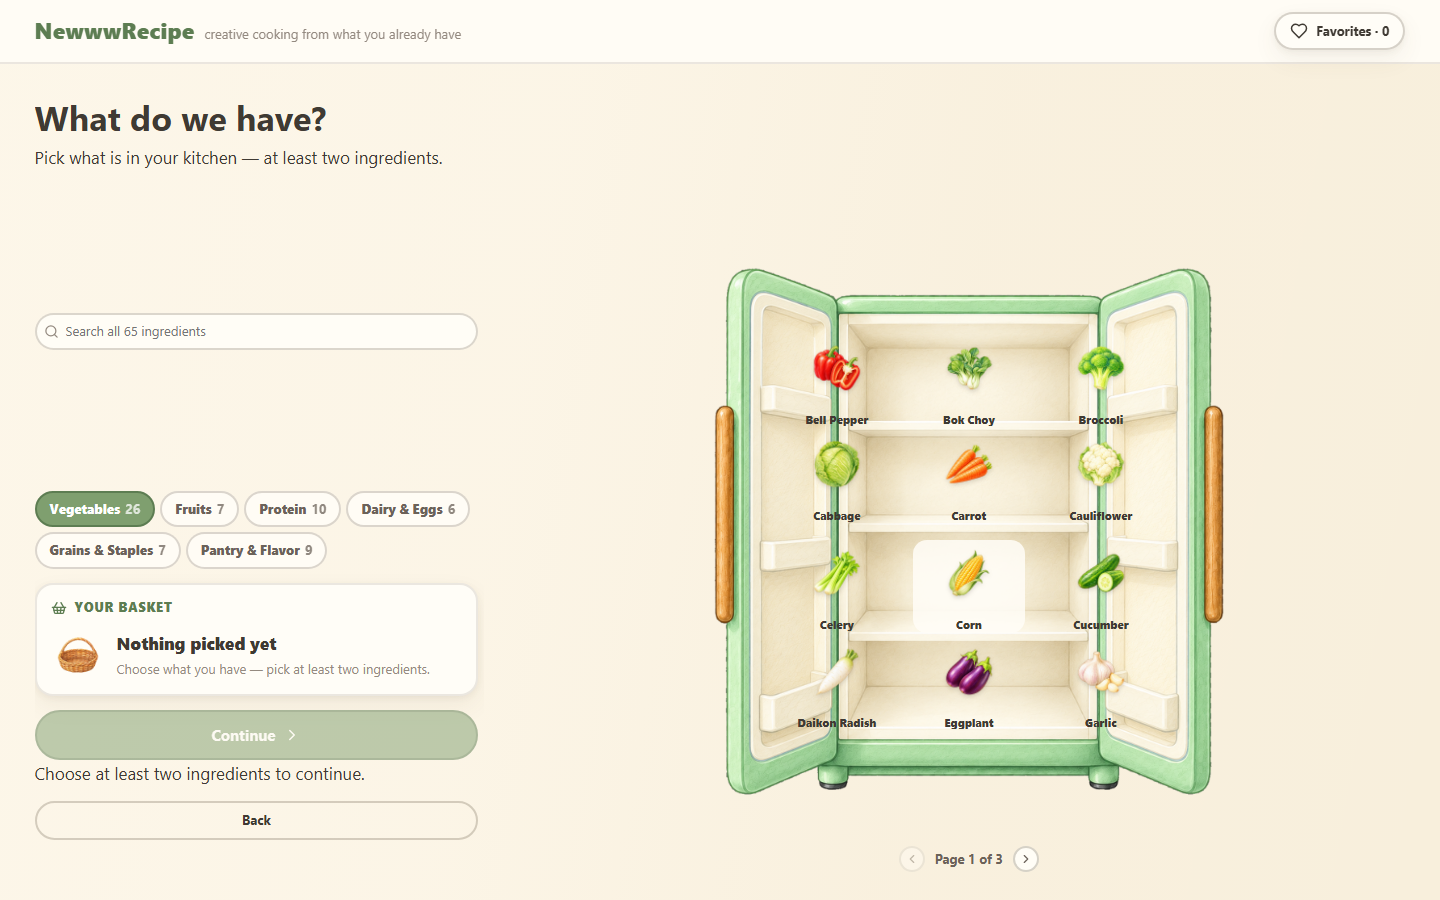
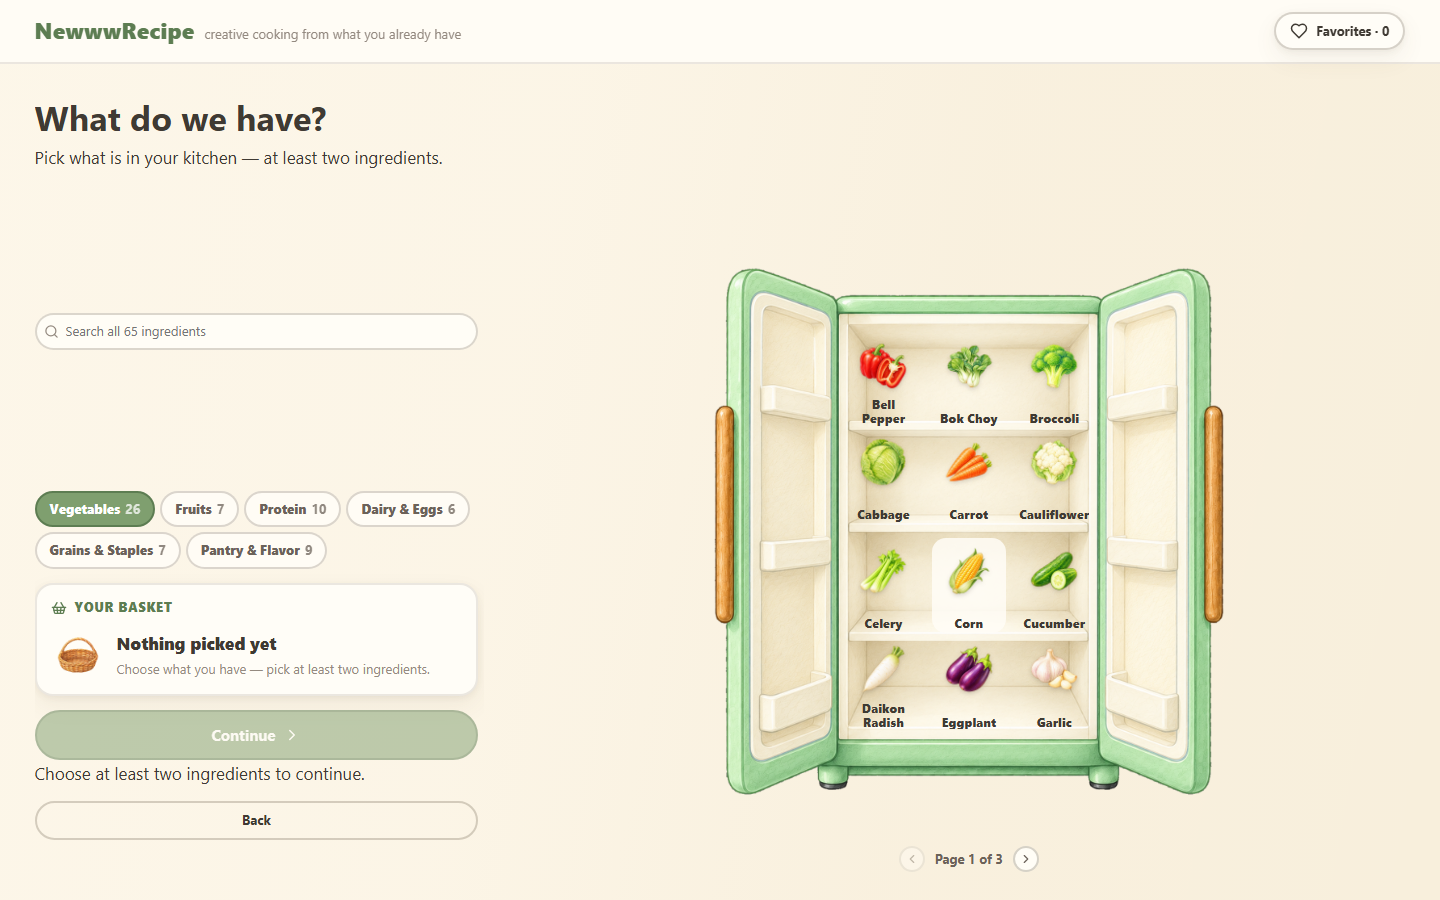
fix: constrain ingredients to fridge cavity
The previous alignment used --cavity-left/right: 9% -> 91%, which mapped to the
whole open-fridge silhouette INCLUDING the open door panels, not the central
storage cavity. This pushed the first and third ingredient columns onto the door
frames at both 1440x900 and 1024x768.

Re-measured the true central cavity from fronted asset/fridge_open_empty.png
(1536x1536) by detecting the inner edges of the two green cabinet body walls and
cross-checking that the shelf boards terminate exactly there:
  left inner edge x=445 (~28.97%), right inner edge x=1085 (~70.64%).

Introduce a two-layer coordinate model:
- Layer 1 (image space): .fridge__frame keeps the 1:1 mapping; adds
  --cavity-left-x: 29% and --cavity-right-x: 71% as full-image percentages.
- Layer 2 (cavity space): .fridge__interior is clipped to that central cavity
  (left/right narrowed, top/bottom left at frame edges so shelf Y stays valid),
  and .shelf__row is a 3-column grid (repeat(3, minmax(0,1fr))) inside it with a
  --cavity-safe: 3% inset so tiles never touch the green walls. Tiles fill their
  column (width:100%) instead of spanning the whole frame width.

Vertical shelf anchors (36.20/51.69/69.27/85.16%) are unchanged and remain
bottom-anchored; Preferences reuses the identical coordinate system.

Verification: Playwright geometric checks at 1440x900 and 1024x768 confirm every
one of the 12 tiles stays within the true cavity (0 failures, 0 horizontal
[…]

Changed region(s): [[0.5625, 0.3733, 0.7812, 0.8089], [0.7188, 0.3733, 0.7812, 0.5911], [0.5625, 0.6844, 0.625, 0.8089]]

diff --git a/web/src/styles/global.css b/web/src/styles/global.css
@@ -428,31 +428,43 @@ button {
   }
 }
 
-/* Square 1:1 stage that the rendered frames and the ingredient overlay share.
-   All three source PNGs are 1536x1536, so a square box + object-fit:fill maps
-   image pixels 1:1 onto the overlay's percentage coordinate system (no
-   letterboxing, no distortion). Shelf anchors below were measured from the
-   actual fridge_open_empty.png, expressed as full-image percentages:
-     cavity x: 9% -> 91%   shelf boards (image-y): 36.20 / 51.69 / 69.27 / 85.16 %
-   See the alignment fix commit for the measurement method. */
+/* Two-layer coordinate model, measured from the actual 1536x1536
+   fridge_open_empty.png (see the cavity-constrain fix commit):
+     - Layer 1 (image space): .fridge__frame == the full 1536x1536 image.
+       --cavity-left-x / --cavity-right-x are the INNER edges of the two green
+       cabinet body walls that bound the central storage cavity. They are NOT
+       the fridge silhouette (which includes the open doors at ~9%..91%).
+       Measured: left inner edge x=445 (~28.97%), right inner edge x=1085
+       (~70.64%); the shelf boards terminate exactly at these x at every level.
+     - Layer 2 (cavity space): .fridge__interior is clipped to that central
+       cavity, and the 3-column grid lives inside it with a safe inset.
+   Shelf anchors are full-image Y percentages and stay unchanged:
+     36.20 / 51.69 / 69.27 / 85.16 %. */
 .fridge__frame {
-  --cavity-left: 9%;
-  --cavity-right: 9%;
+  --cavity-left-x: 29%;
+  --cavity-right-x: 71%;
+  --cavity-safe: 3%;
   --shelf-1-y: 36.20%;
   --shelf-2-y: 51.69%;
   --shelf-3-y: 69.27%;
   --shelf-4-y: 85.16%;
   --shelf-gap: 1.4%;
   --tile-art-h: calc(var(--fridge-size) * 0.10);
-  --tile-name-fs: calc(var(--fridge-size) * 0.018);
+  --tile-name-fs: calc(var(--fridge-size) * 0.020);
   position: relative;
   width: 100%;
   aspect-ratio: 1 / 1;
 }
 
+/* Layer 2: clipped to the central storage cavity only (between the two green
+   body walls). Top/bottom stay at the frame edges so the measured shelf Y
+   percentages remain valid; only left/right are narrowed to the cavity. */
 .fridge__interior {
   position: absolute;
-  inset: 0;
+  top: 0;
+  bottom: 0;
+  left: var(--cavity-left-x);
+  right: calc(100% - var(--cavity-right-x));
   z-index: 3;
   opacity: 0;
   visibility: hidden;
@@ -765,14 +777,17 @@ button {
   inset: 0;
 }
 
+/* Three columns live INSIDE the central cavity (the .fridge__interior is already
+   clipped to it). A safe inset keeps tiles off the green body walls; columns are
+   computed from the cavity's own width so they never span the whole fridge. */
 .shelf__row {
   position: absolute;
-  left: var(--cavity-left);
-  right: var(--cavity-right);
-  display: flex;
-  justify-content: center;
+  left: var(--cavity-safe);
+  right: var(--cavity-safe);
+  display: grid;
+  grid-template-columns: repeat(3, minmax(0, 1fr));
   align-items: flex-end;
-  gap: clamp(6px, 1.6vw, 20px);
+  gap: clamp(2px, 0.8vw, 12px);
   transform: none;
 }
 
@@ -800,7 +815,8 @@ button {
   align-items: center;
   justify-content: flex-end;
   gap: 2px;
-  width: clamp(54px, calc(var(--fridge-size) * 0.22), 112px);
+  width: 100%;
+  max-width: 100%;
   padding: 2px;
   background: transparent;
   border: 0;

diff --git a/web/src/components/IngredientShelf.test.tsx b/web/src/components/IngredientShelf.test.tsx
@@ -65,23 +65,41 @@ describe('ingredient shelf — coordinate model', () => {
     expect(other).toHaveAttribute('aria-pressed', 'false')
   })
 
-  it('centralizes shelf positions in CSS custom properties (bottom-anchored, not old top bands)', () => {
+  it('centralizes shelf positions in CSS custom properties (cavity-constrained, bottom-anchored)', () => {
     const css = readFileSync(resolve(process.cwd(), 'src/styles/global.css'), 'utf8')
 
-    // Measured, full-image-percentage shelf anchors must be present.
-    expect(css).toContain('--cavity-left: 9%')
+    // Central cavity anchors: inner edges of the two green body walls, measured
+    // from the 1536x1536 PNG (NOT the whole-fridge silhouette / open doors).
+    expect(css).toContain('--cavity-left-x: 29%')
+    expect(css).toContain('--cavity-right-x: 71%')
+    expect(css).toContain('--cavity-safe: 3%')
+
+    // Shelf Y anchors are unchanged full-image percentages, still bottom-anchored.
     expect(css).toContain('--shelf-1-y: 36.20%')
     expect(css).toContain('--shelf-2-y: 51.69%')
     expect(css).toContain('--shelf-3-y: 69.27%')
     expect(css).toContain('--shelf-4-y: 85.16%')
-
-    // Rows must be bottom-anchored to those named anchors...
     expect(css).toContain('bottom: calc(100% - var(--shelf-1-y)')
     expect(css).toContain('bottom: calc(100% - var(--shelf-2-y)')
     expect(css).toContain('bottom: calc(100% - var(--shelf-3-y)')
     expect(css).toContain('bottom: calc(100% - var(--shelf-4-y)')
 
-    // ...and the old ad-hoc per-band top values must be gone from the shelf rows.
+    // The overlay interior is clipped to the central cavity, never the full frame.
+    expect(css).toContain('left: var(--cavity-left-x)')
+    expect(css).toContain('right: calc(100% - var(--cavity-right-x))')
+    // The old full-frame `inset: 0` clipping of the interior is gone.
+    const interiorBlock = css.split('.fridge__interior {')[1].split('}')[0]
+    expect(interiorBlock).not.toContain('inset: 0')
+
+    // Rows live inside the cavity as a 3-column grid with a safe inset.
+    const rowBlock = css.split('.shelf__row {')[1].split('}')[0]
+    expect(rowBlock).toContain('display: grid')
+    expect(rowBlock).toContain('grid-template-columns: repeat(3, minmax(0, 1fr))')
+    expect(rowBlock).toContain('left: var(--cavity-safe)')
+    expect(rowBlock).toContain('right: var(--cavity-safe)')
+
+    // The wrong whole-fridge cavity (incl. open doors) and old top bands are gone.
+    expect(css).not.toContain('--cavity-left: 9%')
     expect(css).not.toContain('top: 17.2%')
     expect(css).not.toContain('top: 31.7%')
     expect(css).not.toContain('top: 53.5%')
